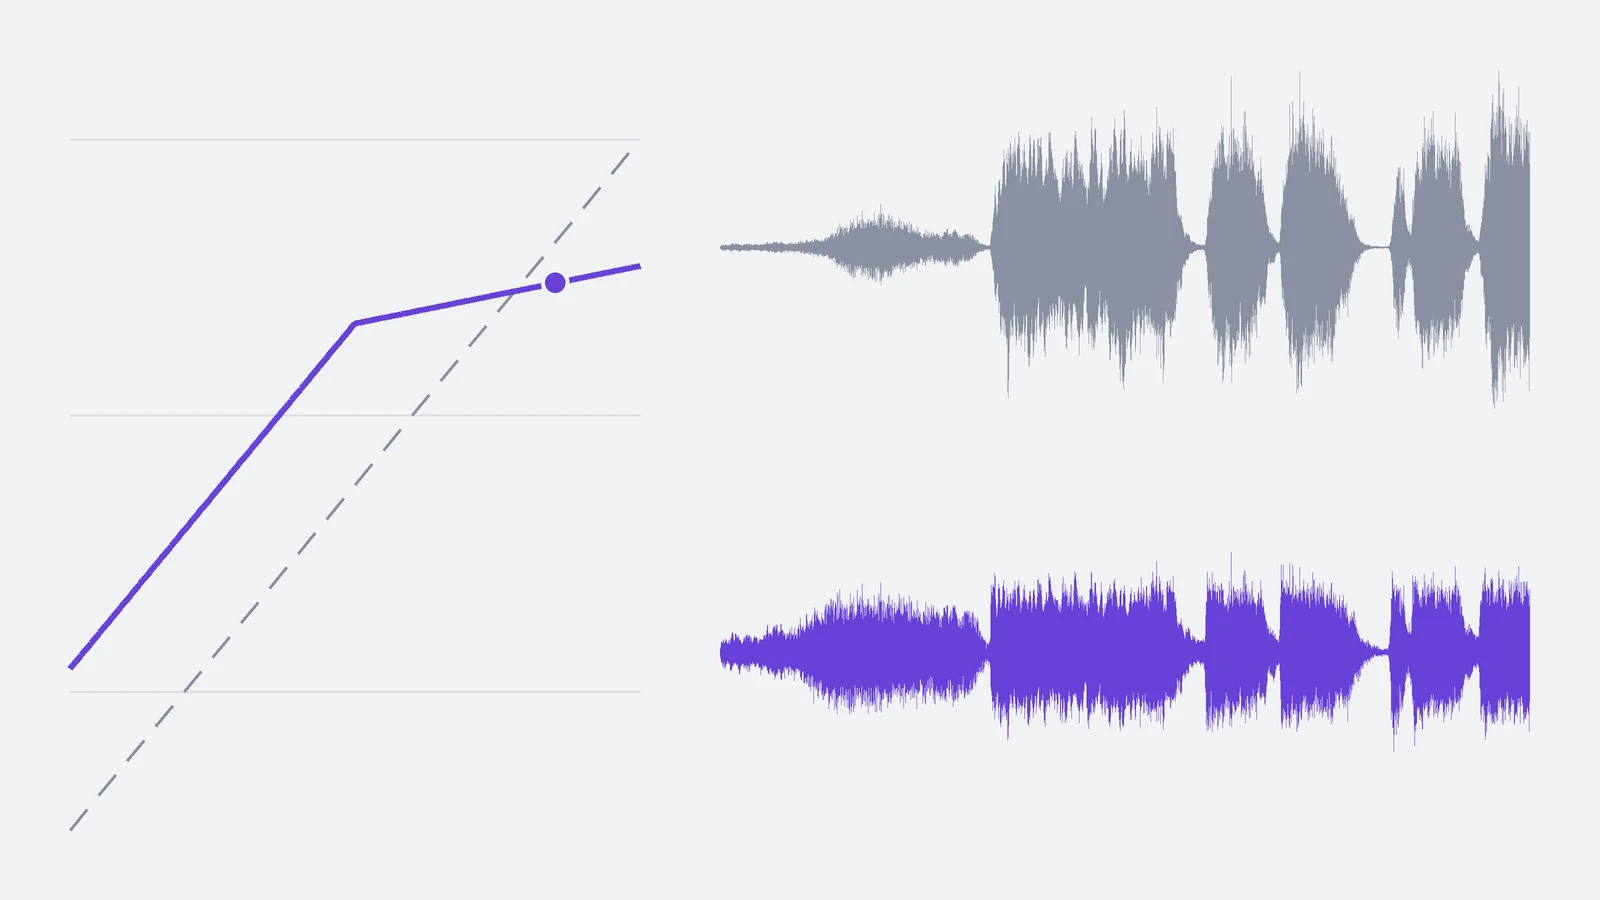
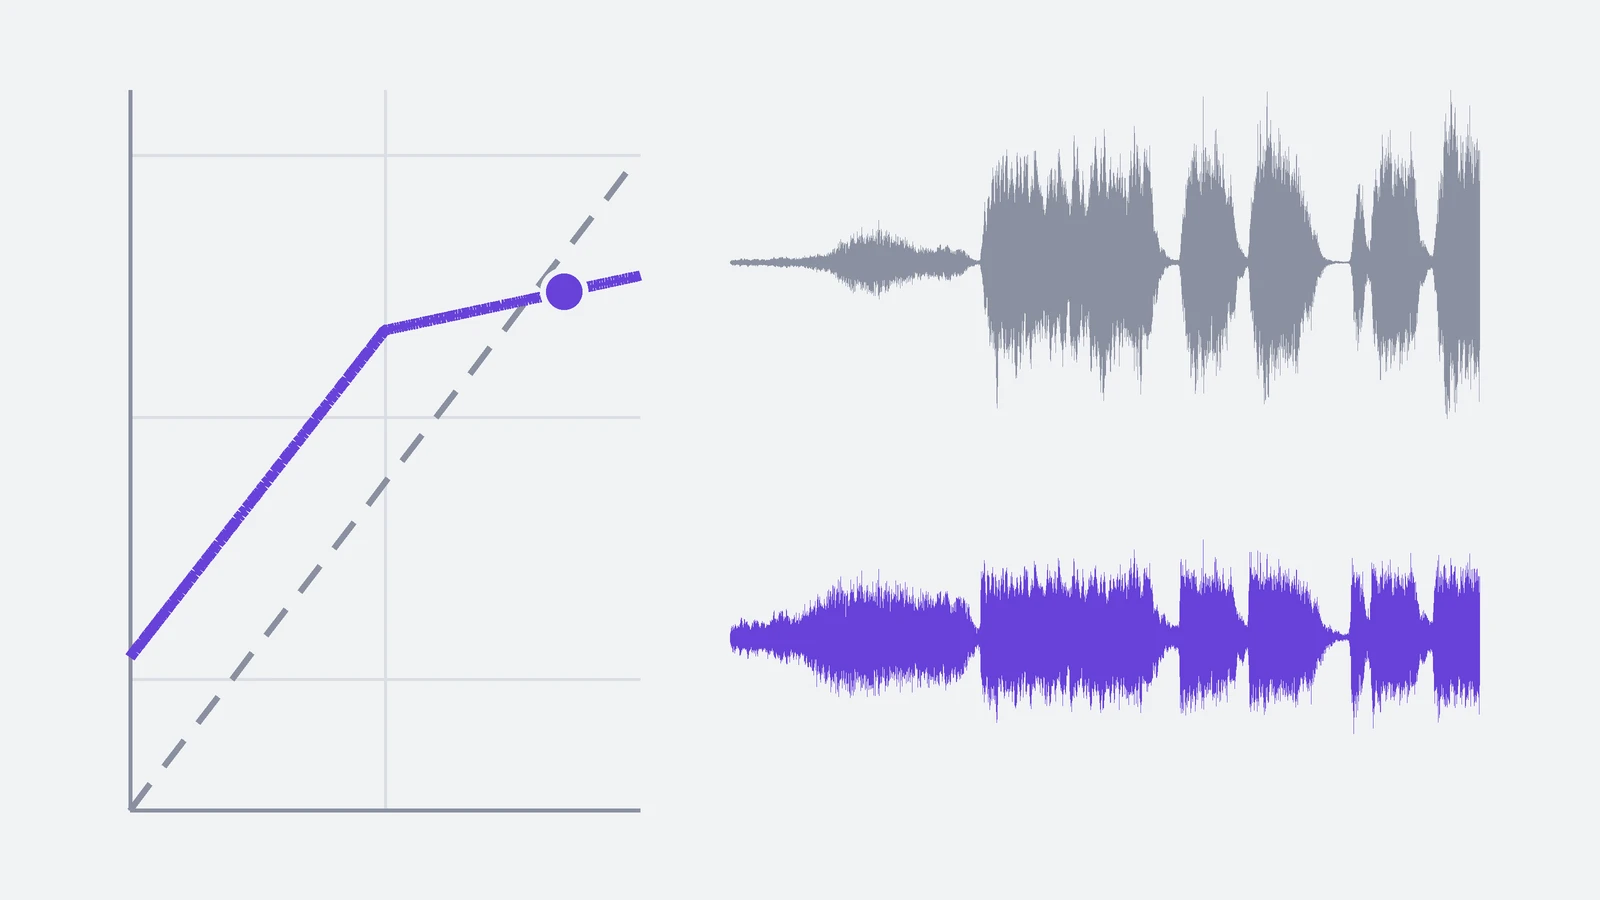
Audioeffekte card picture readable at card size: thicker lines, a larger dot, the curve with its axes and the threshold, the waves larger, everything inside what the card keeps; cards: the lines measured beside the picture that shows (the dark one in the dark theme, not the hidden light one)

diff --git a/src/static/_template.html b/src/static/_template.html
@@ -613,7 +613,8 @@ function install_card_abstract_fit() {
     if (cards.length === 0) return;
     function fit() {
         for (let card of cards) {
-            let img = card.querySelector('img');
+            // the picture that shows: a card has one for the light and one for the dark theme
+            let img = Array.from(card.querySelectorAll('img')).find((e) => e.getClientRects().length > 0);
             let content = card.querySelector('.card-content');
             let abstract = content && content.querySelector('.abstract');
             if (!img || !abstract) continue;

diff --git a/src/content/audio-effects/bilder/teaser.py b/src/content/audio-effects/bilder/teaser.py
@@ -58,11 +58,11 @@ x /= np.abs(x).max()
 y, levels = compress(x, RATE)
 y /= max(1, np.abs(y).max())
 
-# where things go: the curve left, the two sounds right, in pixels of the large picture
-M = 70 * S
-curve = (M, M, 640 * S, H * S - M)                   # left, top, right, bottom
-above = (720 * S, M, W * S - M, H * S // 2 - 25 * S)
-below = (720 * S, H * S // 2 + 25 * S, W * S - M, H * S - M)
+# where things go, in pixels of the large picture: the curve left, the two
+# sounds right, all inside a margin that a card cutting its sides keeps
+curve = (130 * S, 90 * S, 640 * S, 810 * S)           # left, top, right, bottom
+above = (730 * S, 90 * S, 1480 * S, 435 * S)
+below = (730 * S, 465 * S, 1480 * S, 810 * S)
 
 
 def envelope(z, box):
@@ -85,16 +85,20 @@ for suffix, theme in THEMES.items():
     xof = lambda db: left + (db - LO) / -LO * (right - left)
     yof = lambda db: top + (HI - db) / (HI - LO) * (bottom - top)
     for db in (0, -24, -48):
-        draw.line([(left, yof(db)), (right, yof(db))], fill=theme['quiet'], width=2 * S)
+        draw.line([(left, yof(db)), (right, yof(db))], fill=theme['quiet'], width=3 * S)
+    # the threshold: where the curve bends, a quiet vertical line
+    draw.line([(xof(THRESHOLD), top), (xof(THRESHOLD), bottom)], fill=theme['quiet'], width=3 * S)
+    # the axes, in and out
+    draw.line([(left, top), (left, bottom), (right, bottom)], fill=theme['sound'], width=4 * S)
     # dashed: without the compressor, out = in
-    for k in range(0, 60, 3):
-        draw.line([(xof(LO + k), yof(LO + k)), (xof(LO + k + 1.8), yof(LO + k + 1.8))], fill=theme['sound'], width=3 * S)
+    for k in np.arange(0, 60, 4):
+        draw.line([(xof(LO + k), yof(LO + k)), (xof(LO + k + 2.4), yof(LO + k + 2.4))], fill=theme['sound'], width=6 * S)
     out = lambda db: db + gain_db(db, THRESHOLD, RATIO) + MAKEUP
     points = [(xof(db), yof(out(db))) for db in np.linspace(LO, 0, 400)]
-    draw.line(points, fill=theme['mark'], width=6 * S, joint='curve')
+    draw.line(points, fill=theme['mark'], width=11 * S, joint='curve')
     now = float(np.median(levels[int(0.7 * len(levels)):]))
-    cx, cy, rad = xof(now), yof(out(now)), 14 * S
-    draw.ellipse([cx - rad, cy - rad, cx + rad, cy + rad], fill=theme['mark'], outline=theme['ground'], width=4 * S)
+    cx, cy, rad = xof(now), yof(out(now)), 24 * S
+    draw.ellipse([cx - rad, cy - rad, cx + rad, cy + rad], fill=theme['mark'], outline=theme['ground'], width=6 * S)
     # the sound, before and after
     for box, z, colour in ((above, x, theme['sound']), (below, y, theme['mark'])):
         for px, hi, lo in envelope(z, box):
